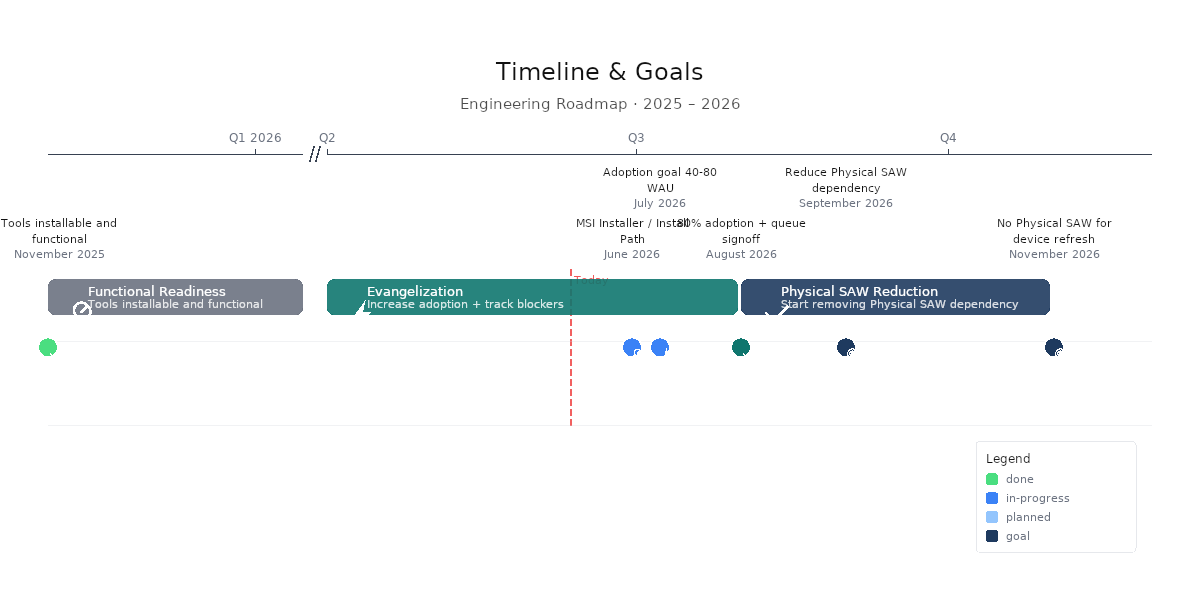
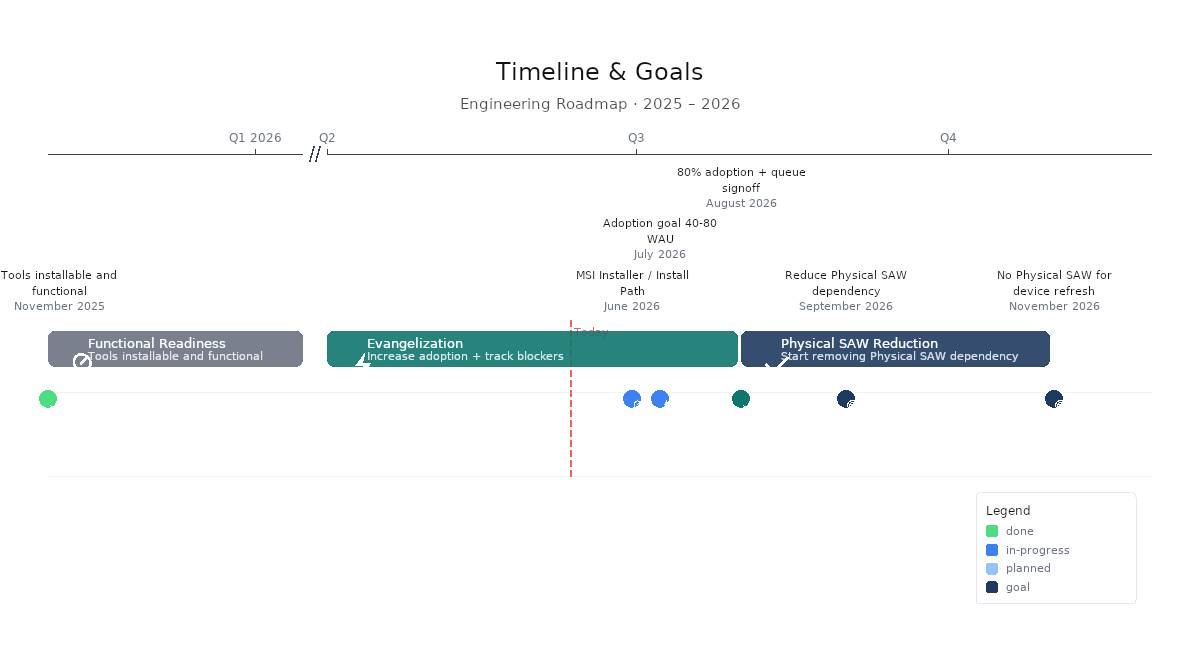
fix(layout): de-collide milestone callout labels (labelWrap-gated)
Dense milestone clusters could place two callout labels on the same
tier with overlapping text (measureText underestimates rendered width,
and the same-tier gap was only 2px). When the labelWrap token is on
(roadmap theme), use LABEL_TIER_HGAP=16 and inflate the collision
footprint by LABEL_COLLISION_PAD=12 so near-adjacent labels get pushed
to separate tiers. Gated on labelWrap => all existing goldens
byte-identical; only the timeline-goals outputs move.

The "Timeline & Goals" June/August milestones now land on distinct
tiers (3 above-axis tiers total) with no overlap. 577 tests pass.

Changed region(s): [[0.0, 0.2114, 0.9558, 0.6342], [0.37, 0.0906, 0.6167, 0.1812], [0.8017, 0.755, 0.8942, 0.9362]]

diff --git a/packages/core/src/layout/horizontal.ts b/packages/core/src/layout/horizontal.ts
@@ -455,6 +455,14 @@ export function layoutHorizontal(ir: IRDocument, theme: ResolvedTheme, baseDir?:
     });
   }
 
+  // When labelWrap is on (roadmap theme), use a wider horizontal gap and a
+  // collision-pad to absorb measureText underestimation — keeps near-adjacent
+  // milestone labels from landing on the same tier and visually overlapping.
+  // When labelWrap is off the constants collapse to the original values so all
+  // existing goldens remain byte-identical.
+  const LABEL_TIER_HGAP      = ms.labelWrap ? 16 : 2;
+  const LABEL_COLLISION_PAD  = ms.labelWrap ? 12 : 0;
+
   // Above-side tier assignment (left-to-right greedy, x-space only)
   {
     const aboveBlocks = blockInfos
@@ -462,9 +470,9 @@ export function layoutHorizontal(ir: IRDocument, theme: ResolvedTheme, baseDir?:
       .sort((a, b) => a.xCenter !== b.xCenter ? a.xCenter - b.xCenter : a.msIdx - b.msIdx);
     const tierEndX: number[] = [];
     for (const b of aboveBlocks) {
-      const bL = rhu(b.xCenter - b.blockW / 2);
-      const bR = rhu(b.xCenter + b.blockW / 2);
-      let t = tierEndX.findIndex((ex) => ex + 2 <= bL);
+      const bL = rhu(b.xCenter - (b.blockW + LABEL_COLLISION_PAD) / 2);
+      const bR = rhu(b.xCenter + (b.blockW + LABEL_COLLISION_PAD) / 2);
+      let t = tierEndX.findIndex((ex) => ex + LABEL_TIER_HGAP <= bL);
       if (t === -1) { tierEndX.push(-Infinity); t = tierEndX.length - 1; }
       tierEndX[t] = bR;
       b.tier = t;
@@ -478,9 +486,9 @@ export function layoutHorizontal(ir: IRDocument, theme: ResolvedTheme, baseDir?:
       .sort((a, b) => a.xCenter !== b.xCenter ? a.xCenter - b.xCenter : a.msIdx - b.msIdx);
     const tierEndX: number[] = [];
     for (const b of belowBlocks) {
-      const bL = rhu(b.xCenter - b.blockW / 2);
-      const bR = rhu(b.xCenter + b.blockW / 2);
-      let t = tierEndX.findIndex((ex) => ex + 2 <= bL);
+      const bL = rhu(b.xCenter - (b.blockW + LABEL_COLLISION_PAD) / 2);
+      const bR = rhu(b.xCenter + (b.blockW + LABEL_COLLISION_PAD) / 2);
+      let t = tierEndX.findIndex((ex) => ex + LABEL_TIER_HGAP <= bL);
       if (t === -1) { tierEndX.push(-Infinity); t = tierEndX.length - 1; }
       tierEndX[t] = bR;
       b.tier = t;